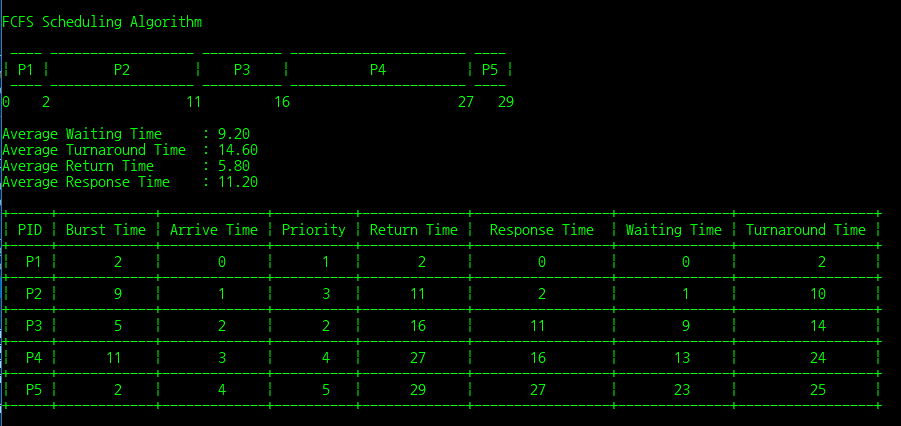
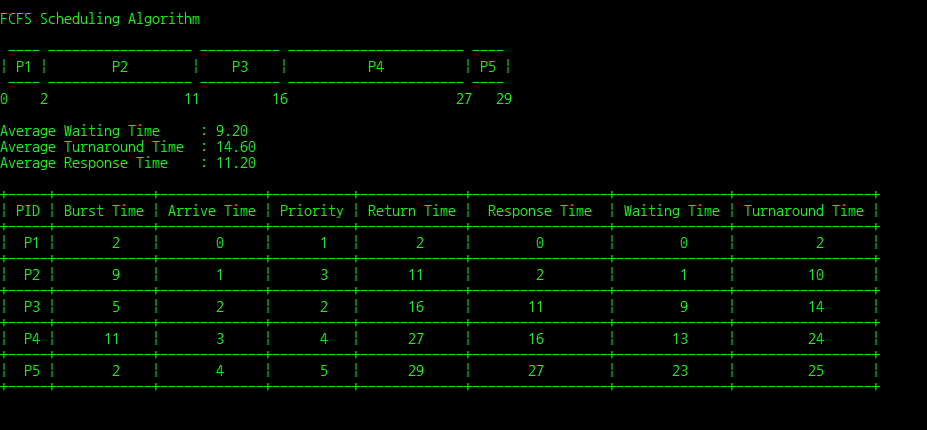
Delete print average return time & Change Test Image

diff --git a/CpuSchedulingAlgorithmsModule/RR.h b/CpuSchedulingAlgorithmsModule/RR.h
@@ -205,7 +205,6 @@ void RR(Process *p, int len, Quantum quantum)
 
 	printf("\nAverage Waiting Time     : %-2.2lf\n", (double)total_waiting_time / (double)len);
 	printf("Average Turnaround Time  : %-2.2lf\n", (double)total_turnaround_time / (double)len);
-	printf("Average Return Time      : %-2.2lf\n", (double)total_return_time / (double)len);
 	printf("Average Response Time    : %-2.2lf\n\n", (double)total_response_time / (double)len);
 
 	print_table(p, len);

diff --git a/CpuSchedulingAlgorithmsModule/FCFS.h b/CpuSchedulingAlgorithmsModule/FCFS.h
@@ -108,7 +108,6 @@ void FCFS(Process *p, int len)
 
 	printf("\nAverage Waiting Time     : %-2.2lf\n", (double)total_waiting_time / (double)len);
 	printf("Average Turnaround Time  : %-2.2lf\n", (double)total_turnaround_time / (double)len);
-	printf("Average Return Time      : %-2.2lf\n", (double)total_return_time / (double)len);
 	printf("Average Response Time    : %-2.2lf\n\n", (double)total_response_time / (double)len);
 
 	print_table(p, len);

diff --git a/CpuSchedulingAlgorithmsModule/NPPS.h b/CpuSchedulingAlgorithmsModule/NPPS.h
@@ -148,7 +148,6 @@ void NPPS(Process *p, int len)
 
 	printf("\nAverage Waiting Time     : %-2.2lf\n", (double)total_waiting_time / (double)len);
 	printf("Average Turnaround Time  : %-2.2lf\n", (double)total_turnaround_time / (double)len);
-	printf("Average Return Time      : %-2.2lf\n", (double)total_return_time / (double)len);
 	printf("Average Response Time    : %-2.2lf\n\n", (double)total_response_time / (double)len);
 
 	print_table(p, len);

diff --git a/CpuSchedulingAlgorithmsModule/HRN.h b/CpuSchedulingAlgorithmsModule/HRN.h
@@ -132,7 +132,6 @@ void HRN(Process *p, int len)
 
 	printf("\nAverage Waiting Time     : %-2.2lf\n", (double)total_waiting_time / (double)len);
 	printf("Average Turnaround Time  : %-2.2lf\n", (double)total_turnaround_time / (double)len);
-	printf("Average Return Time      : %-2.2lf\n", (double)total_return_time / (double)len);
 	printf("Average Response Time    : %-2.2lf\n\n", (double)total_response_time / (double)len);
 
 	print_table(p, len);

diff --git a/CpuSchedulingAlgorithmsModule/SJF.h b/CpuSchedulingAlgorithmsModule/SJF.h
@@ -151,7 +151,6 @@ void SJF(Process *p, int len)
 
 	printf("\nAverage Waiting Time     : %-2.2lf\n", (double)total_waiting_time / (double)len);
 	printf("Average Turnaround Time  : %-2.2lf\n", (double)total_turnaround_time / (double)len);
-	printf("Average Return Time      : %-2.2lf\n", (double)total_return_time / (double)len);
 	printf("Average Response Time    : %-2.2lf\n\n", (double)total_response_time / (double)len);
 
 	print_table(p, len);
